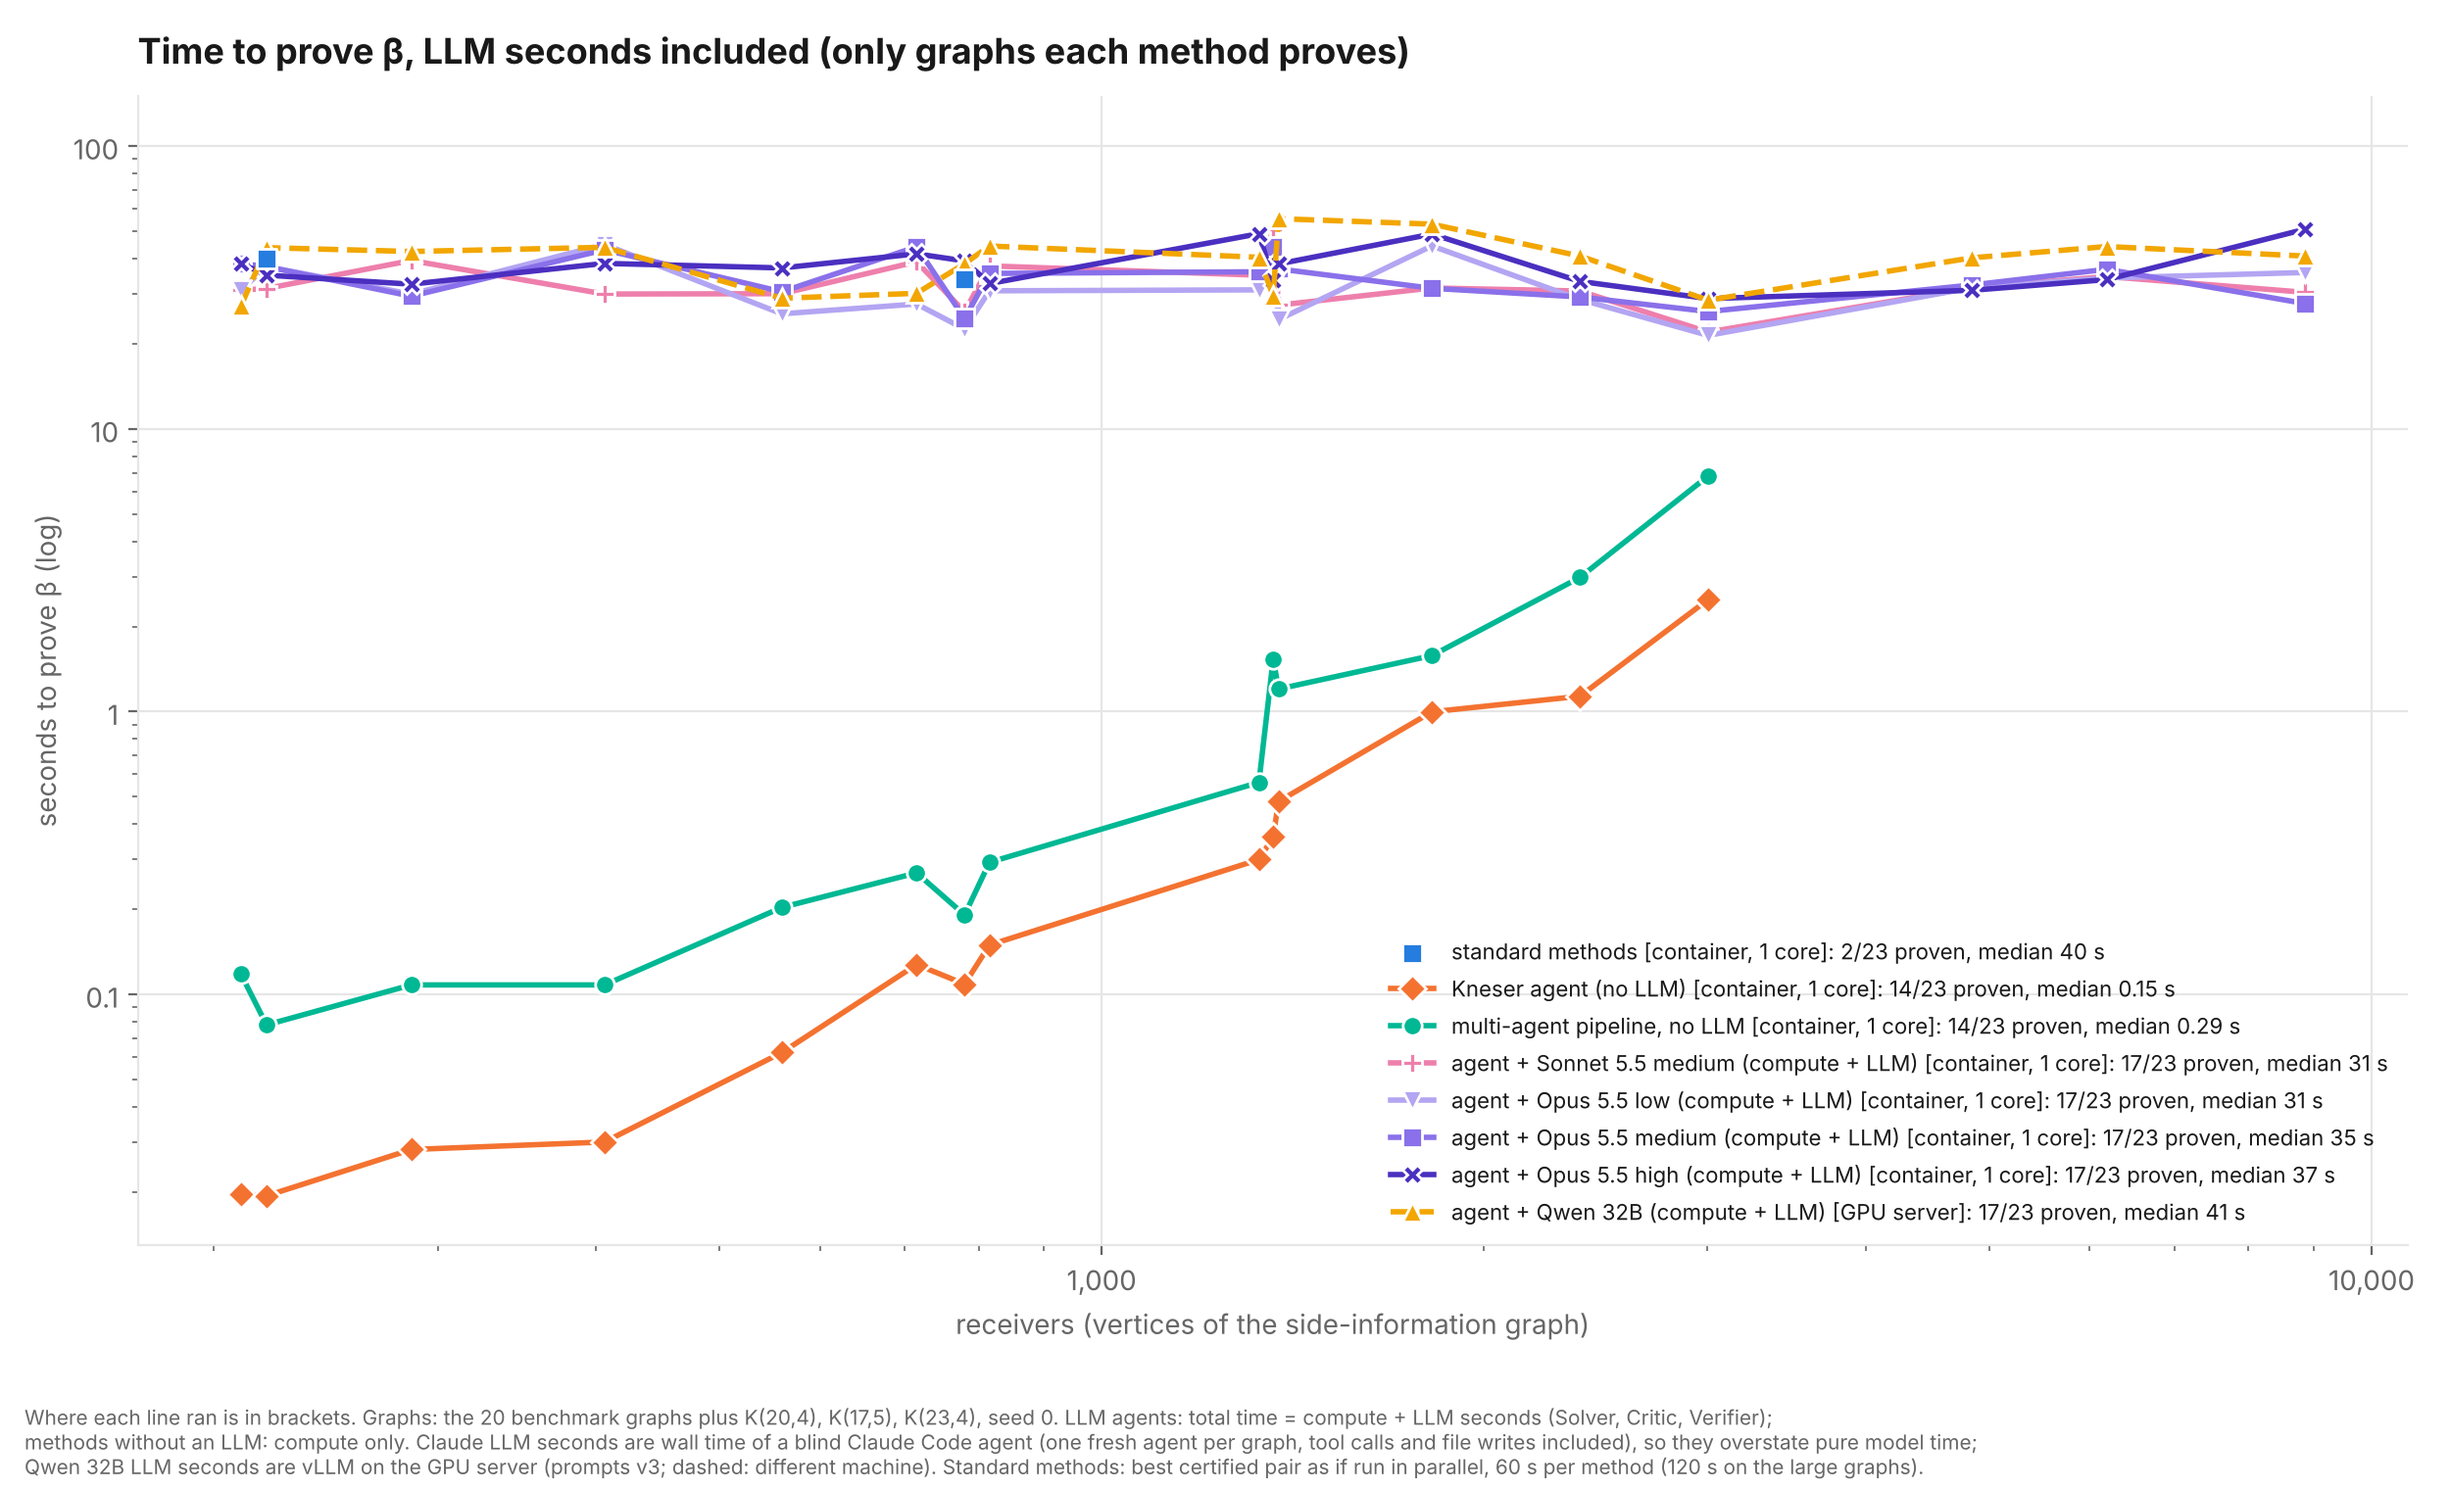
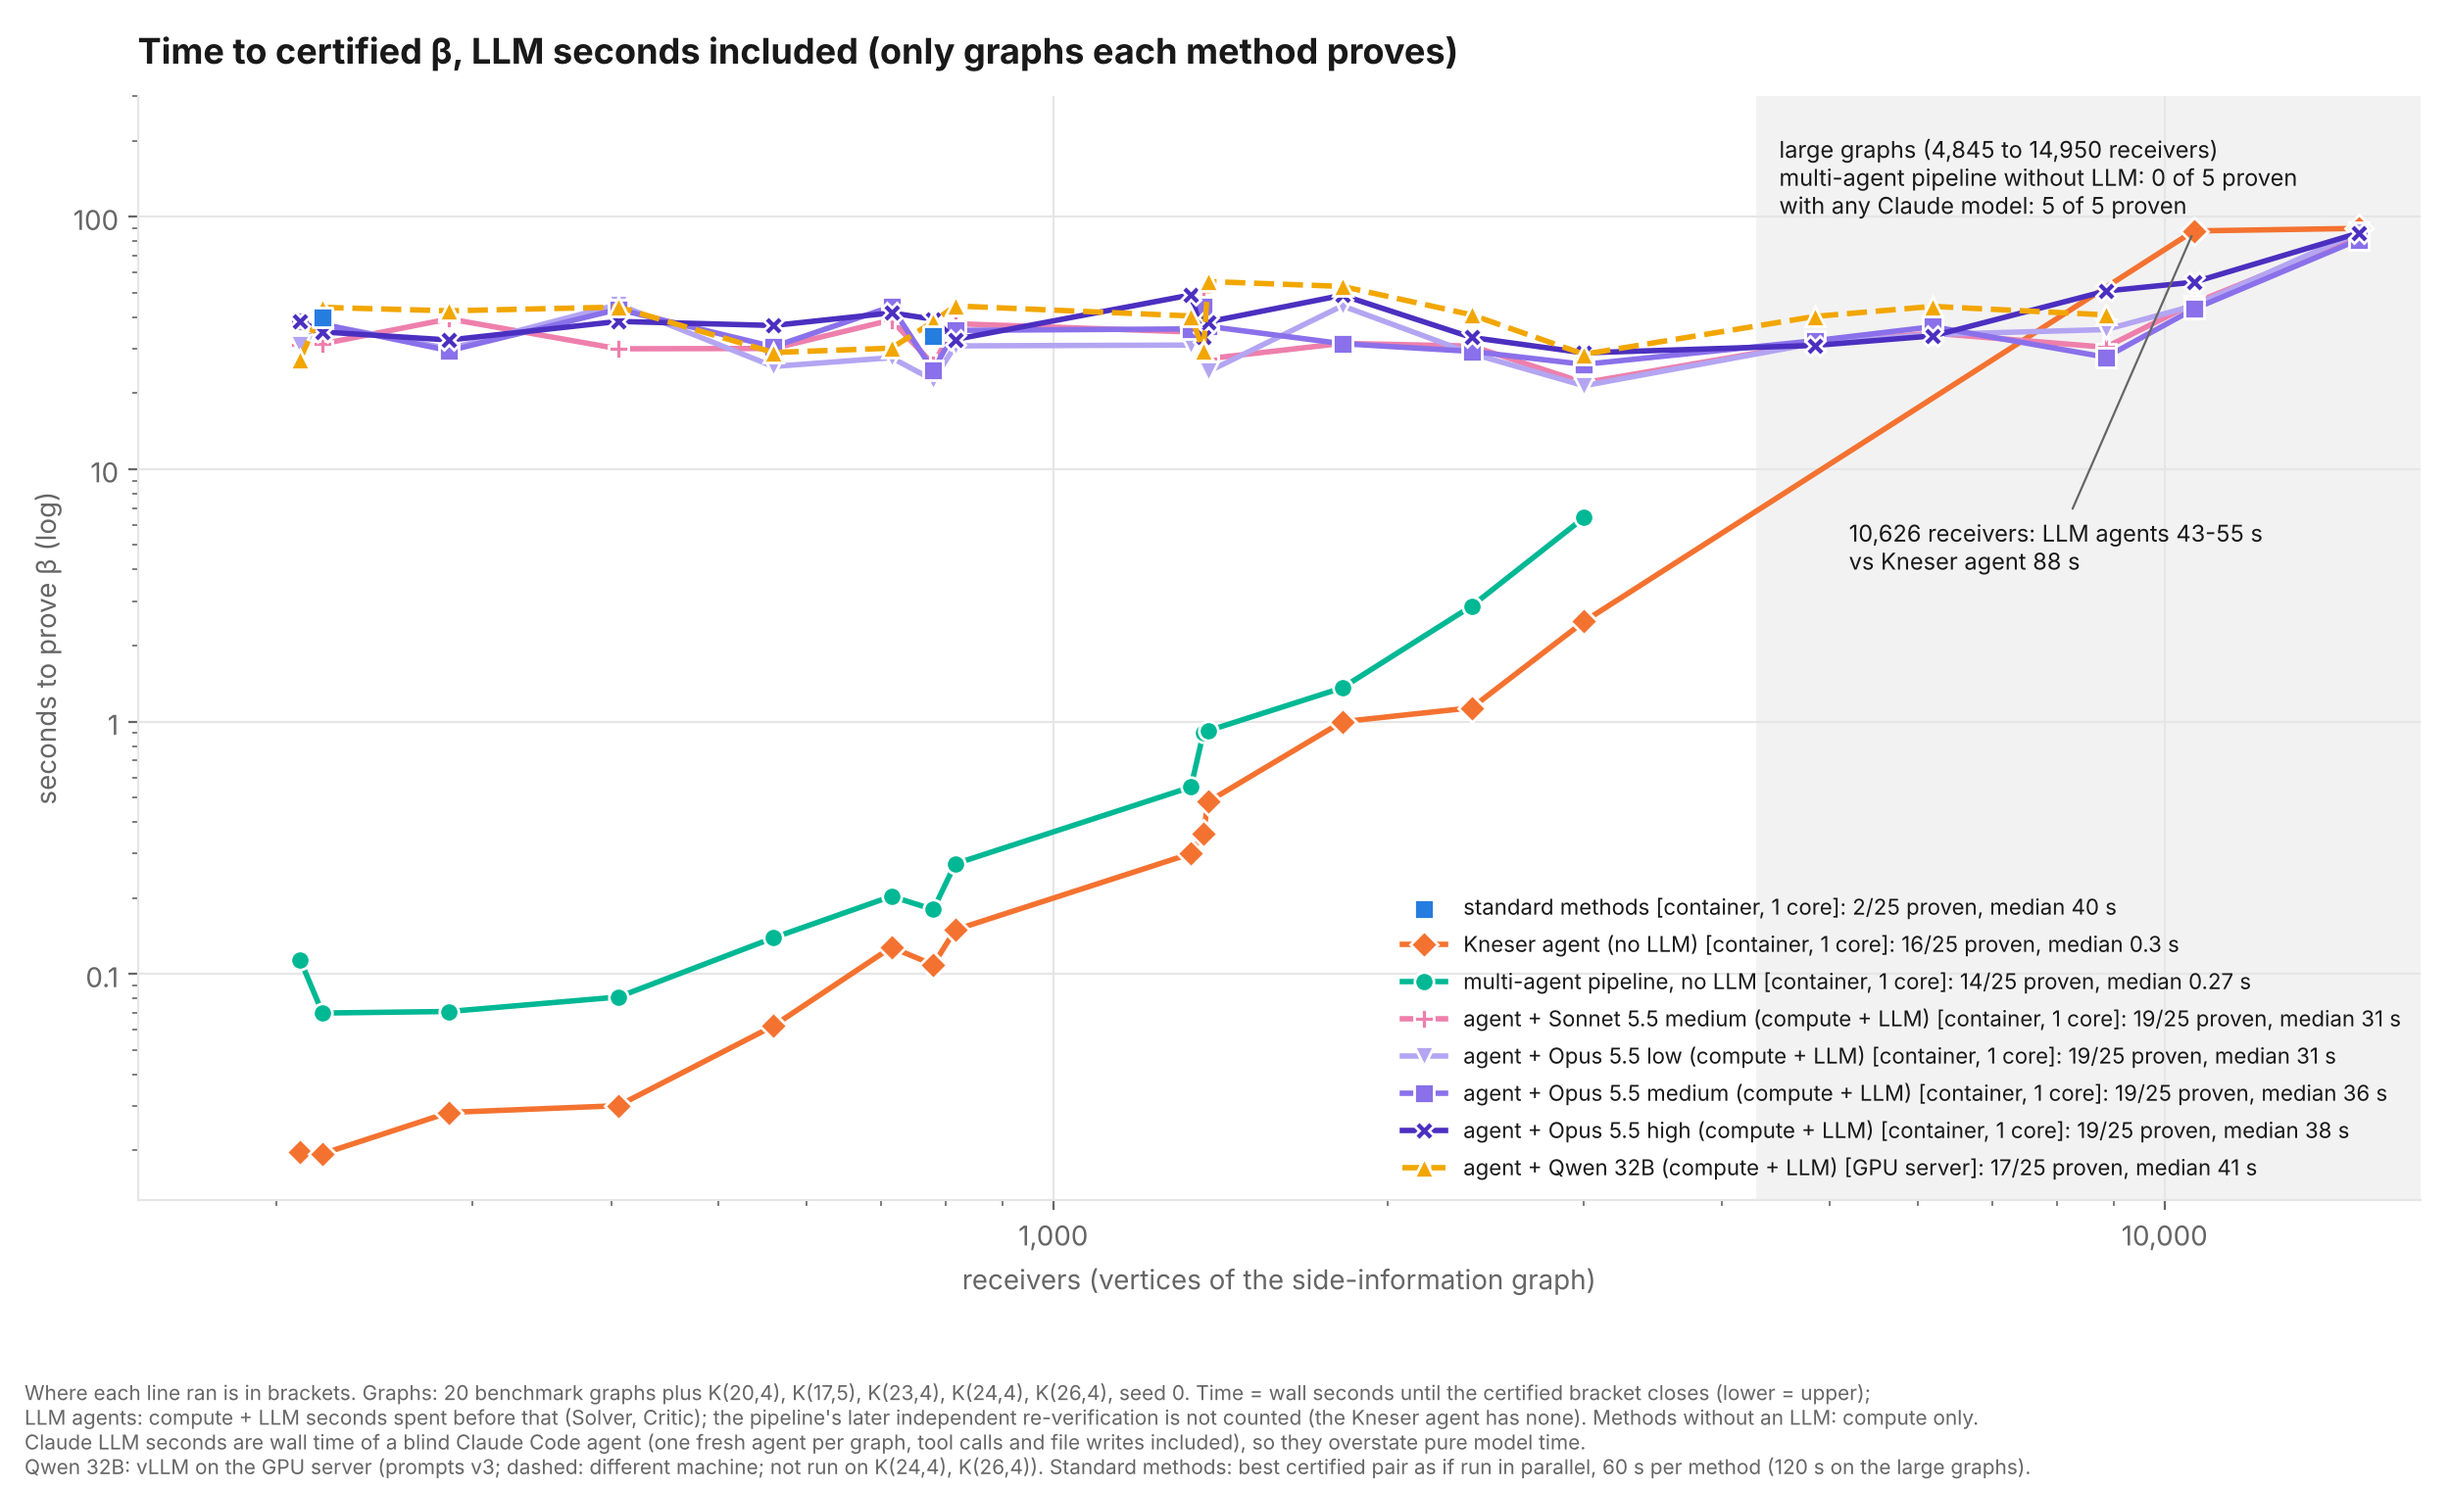
kneser-agent ablation: K(26,4) (14,950 receivers) for the four blind Claude configurations; chart measures time to certified beta (first bracket close, LLM seconds included), shades the large-graph region and marks 10,626 receivers

diff --git a/kneser-agent/bench/ablation/plot_time.py b/kneser-agent/bench/ablation/plot_time.py
@@ -33,12 +33,26 @@ def proven(r):
     return r["verdict"] == "proven" and r["bracket"][0] == r["bracket"][1] and all(r["checks"].values())
 
 
-def agent_pts(pred, field="compute_s", only_proven=True):
+def cert_seconds(r):
+    """Wall seconds (LLM included) until the certified bracket first closes (lower = upper), from the run's trace.
+    This is the moment beta is proven; the search loop can run on a little longer while workers stop, and the
+    independent re-verification comes after. Falls back to wall_s when the trace has no close event."""
+    f = ROOT / "traces" / (r.get("trace") or "")
+    if f.is_file():
+        for line in f.open():
+            e = json.loads(line)
+            if e.get("ev") == "event" and e.get("name") == "bracket_closed":
+                return e["t"]
+    return r["wall_s"]
+
+
+def agent_pts(pred, field="cert", only_proven=True):
     """[(receivers, seconds)] over the full set, last matching row per spec wins."""
     pts = {}
     for r in runs:
         if r["spec"] in SPECS and pred(r) and (proven(r) or not only_proven):
-            pts[r["spec"]] = (r["receivers"], max(r[field], 1e-3))
+            v = cert_seconds(r) if field == "cert" else r[field]
+            pts[r["spec"]] = (r["receivers"], max(v, 1e-3))
     return sorted(pts.values())
 
 
@@ -86,10 +100,10 @@ std_c, kus_c = sorted(std_c + _s), sorted(dict((x, (x, y)) for x, y in kus_c + _
 CTR, GPU = "container, 1 core", "GPU server"
 series = [("std", f"standard methods [{CTR}]", std_c), ("kus", f"Kneser agent (no LLM) [{CTR}]", kus_c),
           ("none", f"multi-agent pipeline, no LLM [{CTR}]", agent_pts(tagged("ctr")))]
-# LLM agents: total time = compute + LLM seconds (wall_s); the label says what the LLM part is
-series += [(c, f"{lab} (compute + LLM) [{CTR}]", agent_pts(tagged(c + "-full"), "wall_s"))
+# LLM agents: time to certified beta includes the LLM seconds spent before it; the label says so
+series += [(c, f"{lab} (compute + LLM) [{CTR}]", agent_pts(tagged(c + "-full")))
            for c, lab in CLAUDE]
-series += [("qwen", f"agent + Qwen 32B (compute + LLM) [{GPU}]", agent_pts(server_qwen, "wall_s"))]
+series += [("qwen", f"agent + Qwen 32B (compute + LLM) [{GPU}]", agent_pts(server_qwen))]
 
 TXT, SUB, GRID = "#191919", "#666666", "#e6e6e6"
 plt.rcParams.update({"font.size": 10, "axes.edgecolor": GRID, "xtick.color": SUB, "ytick.color": SUB})
@@ -116,17 +130,30 @@ ax.set_xlabel("receivers (vertices of the side-information graph)", color=SUB)
 ax.set_ylabel("seconds to prove β (log)", color=SUB)
 ax.xaxis.set_major_formatter(FuncFormatter(lambda v, _: f"{v:,.0f}"))
 ax.yaxis.set_major_formatter(FuncFormatter(lambda v, _: f"{v:g}"))
-ax.set_ylim(top=150)
+ax.set_ylim(top=300)
+# large-graph region: the pipeline without an LLM proves none of these; every LLM configuration proves all of them
+ax.axvspan(4300, 17000, color="#f2f2f2", zorder=0)
+ax.text(4500, 210, "large graphs (4,845 to 14,950 receivers)\nmulti-agent pipeline without LLM: 0 of 5 proven\n"
+        "with any Claude model: 5 of 5 proven", fontsize=8.5, color=TXT, va="top")
+kd = dict(kus_c)
+llm_at = [dict(p)[10626] for k, _, p in series if k in ("sonnet-med", "opus-low", "opus-med", "opus-high")
+          and 10626 in dict(p)]
+if 10626 in kd and llm_at:
+    ax.annotate(f"10,626 receivers: LLM agents {min(llm_at):.0f}-{max(llm_at):.0f} s\nvs Kneser agent {kd[10626]:.0f} s",
+                xy=(10626, kd[10626]), xytext=(5200, 4), fontsize=8.5, color=TXT,
+                arrowprops=dict(arrowstyle="-", color=SUB, lw=0.8))
+ax.set_xlim(150, 17000)
 ax.legend(loc="lower right", frameon=False, fontsize=8, labelcolor=TXT, ncol=1)
-ax.set_title("Time to prove β, LLM seconds included (only graphs each method proves)", loc="left", color=TXT,
+ax.set_title("Time to certified β, LLM seconds included (only graphs each method proves)", loc="left", color=TXT,
              fontsize=13, fontweight="bold", pad=12)
-note = ("Where each line ran is in brackets. Graphs: the 20 benchmark graphs plus K(20,4), K(17,5), K(23,4), seed 0. "
-        "LLM agents: total time = compute + LLM seconds (Solver, Critic, Verifier);\nmethods without an LLM: compute "
-        "only. Claude LLM seconds are wall time of a blind Claude Code agent (one fresh agent per graph, tool calls and "
-        "file writes included), so they overstate pure model time;\nQwen 32B LLM seconds are vLLM on the GPU server "
-        "(prompts v3; dashed: different machine). Standard methods: best certified pair as if run in parallel, 60 s per "
+note = ("Where each line ran is in brackets. Graphs: 20 benchmark graphs plus K(20,4), K(17,5), K(23,4), K(24,4), "
+        "K(26,4), seed 0. Time = wall seconds until the certified bracket closes (lower = upper);\nLLM agents: compute + "
+        "LLM seconds spent before that (Solver, Critic); the pipeline's later independent re-verification is not counted "
+        "(the Kneser agent has none). Methods without an LLM: compute only.\nClaude LLM seconds are wall time of a blind Claude Code agent (one fresh agent per graph, tool calls and "
+        "file writes included), so they overstate pure model time.\nQwen 32B: vLLM on the GPU server "
+        "(prompts v3; dashed: different machine; not run on K(24,4), K(26,4)). Standard methods: best certified pair as if run in parallel, 60 s per "
         "method (120 s on the large graphs).")
 fig.text(0.01, 0.01, note, color=SUB, fontsize=7.5)
-fig.tight_layout(rect=(0, 0.08, 1, 1))
+fig.tight_layout(rect=(0, 0.11, 1, 1))
 fig.savefig(HERE / "time_to_prove.png", facecolor="white")
 print("wrote", HERE / "time_to_prove.png")
